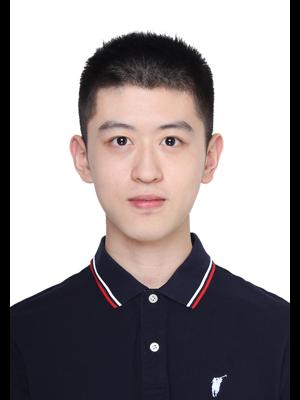
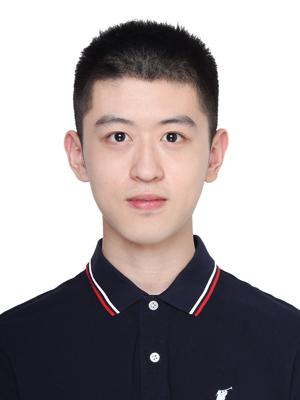
update intern

diff --git a/common/tools/resize_photo.py b/common/tools/resize_photo.py
@@ -45,4 +45,4 @@ target_height = 400
 # target_width = 400  
 # target_height = 300 
 
-resize_and_crop(image_path, output_path, target_width, target_height)
+resize_and_crop(image_path, output_path, target_width, target_height, priority='width')
